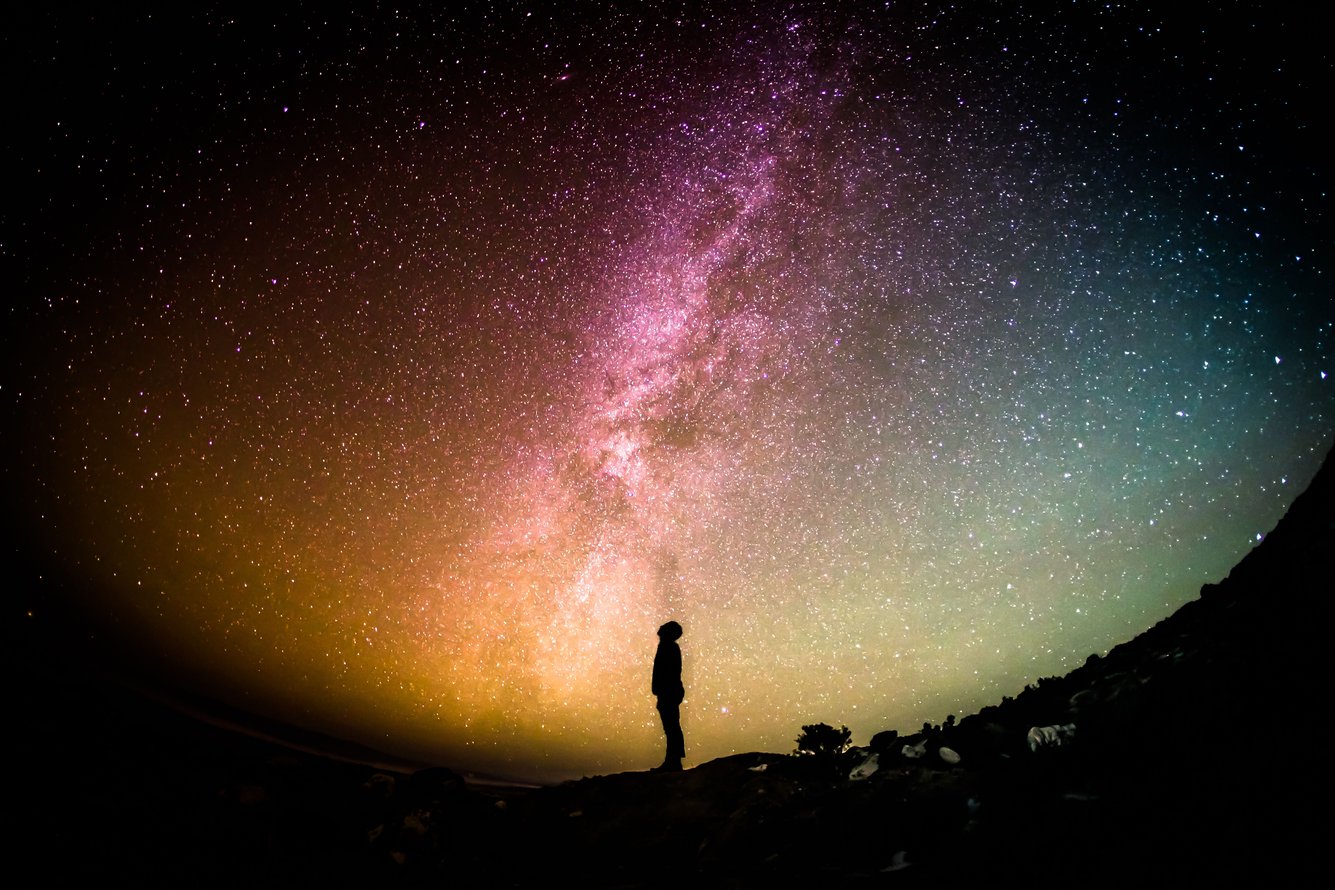
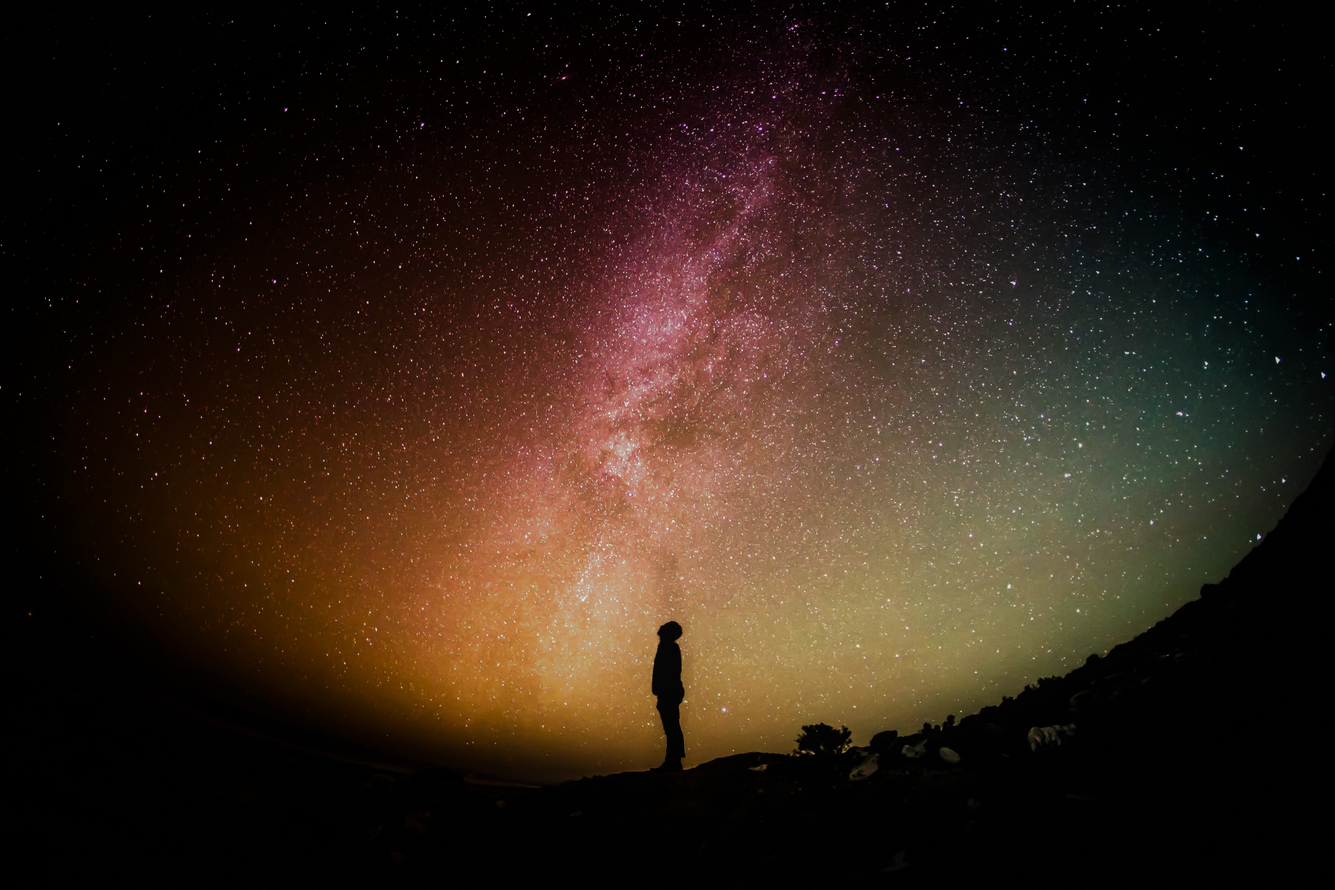
Updated home page

diff --git a/GAL/corysWork/gal_react/src/Components/BodyCard.js b/GAL/corysWork/gal_react/src/Components/BodyCard.js
@@ -1,41 +1,46 @@
 import React from 'react';
 import 'bootstrap/dist/css/bootstrap.min.css';
-import {Card, CardGroup} from 'react-bootstrap';
+import {Card, CardDeck, Row, Col} from 'react-bootstrap';
 import '../App.css';
 
 function BodyCard(){
     return(
-        <div>
-<CardGroup>
-  <Card id='aboutCard'>
-    <Card.Body>
+<div id='midSec'>
 
-      <Card.Text id='aboutText'>
-      “Just this slight glimpse into a <b>possible alternative to the dilemma of wanting to live but not wanting to live my life</b> as it was gave me hope. I started imagining a real place where people, whose suicide ideation was prompted by loss of meaning, could temporarily donate their lives in a way that rapidly revealed the value of their existence.”
-      <p id='pam'>Give Your Life Founder, Pam Boyd</p>
-      </Card.Text>
+<Row className="justify-content-md-center">    
+ <CardDeck>
+   <Col xs={6} lg={8}>
+    <Card id='whyCard'>
+      <Card.Body>
+        <Card.Title class='whyTitle'><b>Why Consider This Idea?</b></Card.Title><br/>
+          <Card.Text class='whyText'>
+           <p>Focusing on the wellbeing of others is not a new idea. Concentrating on others instead of ourselves has saved many of us from bad decisions.</p>
+        </Card.Text>
+        <br/>
+        <hr/>
+        <br/>
+        <Card.Title class='whyTitle'><b>Expanding the Conversation</b></Card.Title><br/>
+        <Card.Text class='whyText'><p>Research shows that people with suicide ideation usually have two symptoms in common:<br/><br/><p id='symptom'>1) A sense of being a burden to others<br/>2) A profound sense of loneliness, alienation and isolation</p><br/></p>
+        <p>The two lowest recorded suicide days in the United States were the day of the 1980 triumph of the US Olympic hockey team over Russia, and 9-11; both days distracting from suicide ideation by increasing a sense of belonging to a larger purpose.</p>
+        </Card.Text>
     </Card.Body>
-    
-  </Card>
- <div id='filler'></div>
-  <Card id='whyCard'>
-    <Card.Body>
+    </Card>
+    </Col>
 
-      <Card.Title class='whyTitle'><b>Why Consider This Idea?</b></Card.Title>
-      <Card.Text class='whyText'>
-      Focusing on the wellbeing of others is not a new idea. Concentrating on others instead of ourselves has saved many of us from bad decisions.
-      </Card.Text>
-      
-      <Card.Title class='whyTitle'><b>Expanding the Conversation</b></Card.Title>
-      <Card.Text class='whyText'>Research shows that people with suicide ideation usually have two symptoms in common:<br/>1) A sense of being a burden to others<br/>2) A profound sense of loneliness, alienation and isolation<br/><br/>
-      <p>The two lowest recorded suicide days in the United States were the day of the 1980 triumph of the US Olympic hockey team over Russia, and 9-11; both days distracting from suicide ideation by increasing a sense of belonging to a larger purpose.</p>
-      </Card.Text>
-    
-    </Card.Body>
-    
-  </Card>
-</CardGroup>
-        </div>
+    <Col>
+    <Card id='aboutCard'>
+      <Card.Body>
+        <Card.Text id='aboutText'>
+        <p>“Just this slight glimpse into a <b id='emph'>possible alternative to the dilemma of wanting to live but not wanting to live my life</b> as it was gave me hope. I started imagining a real place where people, whose suicide ideation was prompted by loss of meaning, could temporarily donate their lives in a way that rapidly revealed the value of their existence.”</p>
+        <p id='pam'>Give Your Life Founder,<br/> Pam Boyd</p>
+        </Card.Text>
+      </Card.Body>
+    </Card>
+    </Col>
+    </CardDeck>
+    </Row>
+  
+</div>
     )
 }
 

diff --git a/GAL/corysWork/gal_react/src/App.css b/GAL/corysWork/gal_react/src/App.css
@@ -1,28 +1,59 @@
+*{
+  margin: 0;
+  padding: 0;
+}
+
+html,body
+{
+    width: 100%;
+    margin: 0px;
+    padding: 0px;
+    overflow-x: hidden; 
+}
+
+h3, h4, p, b{
+  font-family: 'Source Sans Pro', sans-serif;
+}
+
+hr {
+  display: block;
+  margin-top: 0.5em;
+  margin-bottom: 0.5em;
+  margin-left: auto;
+  margin-right: auto;
+  border-style: solid;
+  border-width: 1px;
+  color: #95ADBE;
+}
+
 #background{
+  width: 100%;
   position: absolute;
   z-index: -1;
-  background-color: #4F3A65;
+  background-color:white;
 }
 
 .title{
   position: relative;
   bottom: 180px;
   font-size: 40px;
-  color: black;
+  color: white;
 }
 
 .caption{
   position: relative;
   bottom: 120px;
   font-size: 30px;
-  color: black;
+  color: white;
 }
+
+
 
 .quote{
   position: relative;
   bottom: 120px;
   font-size: 40px;
-  color: black;
+  color: white;
 }
 
 .author{
@@ -30,35 +61,35 @@
   bottom: 130px;
   left: 280px;
   font-size: 25px;
-  color: black;
+  color: white;
 }
 
 #thirdText{
   position: relative;
   font-size: 40px;
   bottom: 130px;
-  color: black;
+  color: #574F70;
 }
 
 #thirdSubText{
   position: relative;
   font-size: 30px;
   bottom: 90px;
-  color: black;
+  color: #574F70;
 }
 
 #fourthText{
   position: relative;
   font-size: 40px;
   bottom: 100px;
-  color: black;
+  color: white;
 }
 
 #fourthSubText{
   position: relative;
   bottom: 50px;
   font-size: 24px;
-  color: black;
+  color: white;
 }
 
 #fourthAuthor{
@@ -66,21 +97,31 @@
   bottom: 45px;
   left: 250px;
   font-size: 18px;
-  color: black;
-}
-
-#aboutCard{
-  background-color: darkcyan;
-}
-
-#aboutText{
-  font-size: 30px;
   color: white;
 }
 
-#filler{
-  width: 30px;
+#midSec{
+  
+  padding-top: 2rem;
+  padding-left: 2rem;
+  padding-right: 2rem;
+  padding-bottom: 2rem;
 }
+
+#aboutCard{
+  background-color: #574F70;
+  border-radius: 1rem;
+}
+
+#aboutText{
+  font-size: 29px;
+  color: white;
+}
+
+#emph{
+  font-size: 37px;
+}
+
 
 #whyCard{
   border: none;
@@ -88,14 +129,22 @@
 
 
 .whyTitle{
-  font-size: 30px;
+  font-size: 35px;
 }
 
 .whyText{
-  font-size: 20px;
+  position: relative;
+  left: 1rem;
+  font-size: 25px;
+}
+
+#symptom{
+  position: relative;
+  left: 3rem;
 }
 
 #pam{
+  font-size: 1.1rem;
   position: relative;
   top: 1.5rem;
   left: 8rem;
@@ -109,6 +158,7 @@
   z-index: 1;
   width: 97%;
   justify-content: center;
+  border-radius: 1rem;
 }
 
 #missTitle{
@@ -123,4 +173,8 @@
   text-align: center;
   font-size: 40px;
   color: black;
+}
+
+.darken{
+  filter: sepia(25%);
 }

diff --git a/GAL/corysWork/gal_react/src/Components/Carousel.js b/GAL/corysWork/gal_react/src/Components/Carousel.js
@@ -2,9 +2,9 @@ import React from 'react';
 import 'bootstrap/dist/css/bootstrap.min.css';
 import {Carousel} from 'react-bootstrap';
 import first from '../images/firstheart.jpg';
-import second from '../images/seconddandy.jpg';
-import third from '../images/sunflower.jpg';
-import fourth from '../images/water-lily.jpg';
+import second from '../images/sunflower.jpg';
+import third from '../images/yellow-background.jpg';
+import fourth from '../images/water-lily2.jpg';
 import fifth from '../images/lastspace.jpg';
 import '../App.css';
 
@@ -17,7 +17,8 @@ function Slider() {
   <Carousel>
   <Carousel.Item >
     <img
-      height = {550}
+      class='resize'
+      height = {575}
       className="d-block w-100"
       src={first}
       alt="Heart"
@@ -31,7 +32,8 @@ function Slider() {
   </Carousel.Item>
   <Carousel.Item>
     <img
-      height = {550}
+      class='resize'
+      height = {575}
       className="d-block w-100"
       src={second}
       alt="Dandelion"
@@ -44,7 +46,8 @@ function Slider() {
   </Carousel.Item>
   <Carousel.Item>
     <img
-      height = {550}
+      class='resize'
+      height = {575}
       className="d-block w-100"
       src={third}
       alt="Third slide"
@@ -61,7 +64,8 @@ function Slider() {
 
 <Carousel.Item>
     <img
-      height = {550}
+      class='resize'
+      height = {575}
       className="d-block w-100"
       src={fourth}
       alt="First slide"
@@ -75,8 +79,9 @@ function Slider() {
 
   <Carousel.Item>
     <img
-      height = {550}
-      className="d-block w-100"
+      class='resize'
+      height = {575}
+      className="d-block w-100 img-responsive"
       src={fifth}
       alt="First slide"
     />

diff --git a/GAL/corysWork/gal_react/src/Components/Navbar.js b/GAL/corysWork/gal_react/src/Components/Navbar.js
@@ -5,9 +5,9 @@ import '../App.css';
 
 function Navb(){
     return(
-        <div id='NavB'>
+        <div >
 
-<Navbar bg="dark" variant= 'dark' expand="lg" >
+<Navbar bg="dark" variant= 'dark' expand="lg" id='NavB' >
   <Navbar.Brand href="#home">Logo</Navbar.Brand>
   <Navbar.Toggle aria-controls="basic-navbar-nav" />
   <Navbar.Collapse id="basic-navbar-nav">
@@ -21,7 +21,7 @@ function Navb(){
     </Nav>
     <Form inline>
       {/* <FormControl type="text" placeholder="Search" className="mr-sm-2" /> */}
-      <Button variant="info">Get Help</Button>
+      <Button variant="info">Find Help</Button>
     </Form>
   </Navbar.Collapse>
 </Navbar>

diff --git a/GAL/corysWork/gal_react/src/App.js b/GAL/corysWork/gal_react/src/App.js
@@ -1,6 +1,6 @@
 import React from 'react';
 import './App.css';
-import Navb from './Components/Navbar.js'
+import Navb from './Components/Navbar.js';
 import Slider from './Components/Carousel.js';
 import BodyCard from './Components/BodyCard.js';
 import Mission from './Components/Mission'
@@ -9,10 +9,12 @@ import Mission from './Components/Mission'
 function App() {
   return (
   <div id='background'>
+    
     <Navb/>
     <Slider/>
     <BodyCard/>
     <Mission/>
+    
   </div>
   );
 }

diff --git a/GAL/corysWork/gal_react/public/index.html b/GAL/corysWork/gal_react/public/index.html
@@ -22,7 +22,7 @@
     <link rel="stylesheet" href="https://stackpath.bootstrapcdn.com/bootstrap/4.1.0/css/bootstrap.min.css" 
     integrity="sha384-9gVQ4dYFwwWSjIDZnLEWnxCjeSWFphJiwGPXr1jddIhOegiu1FwO5qRGvFXOdJZ4" 
     crossorigin="anonymous">
-    
+    <link href="https://fonts.googleapis.com/css?family=Reenie+Beanie|Source+Sans+Pro&display=swap" rel="stylesheet">
     <title>React App</title>
   </head>
   <body>
